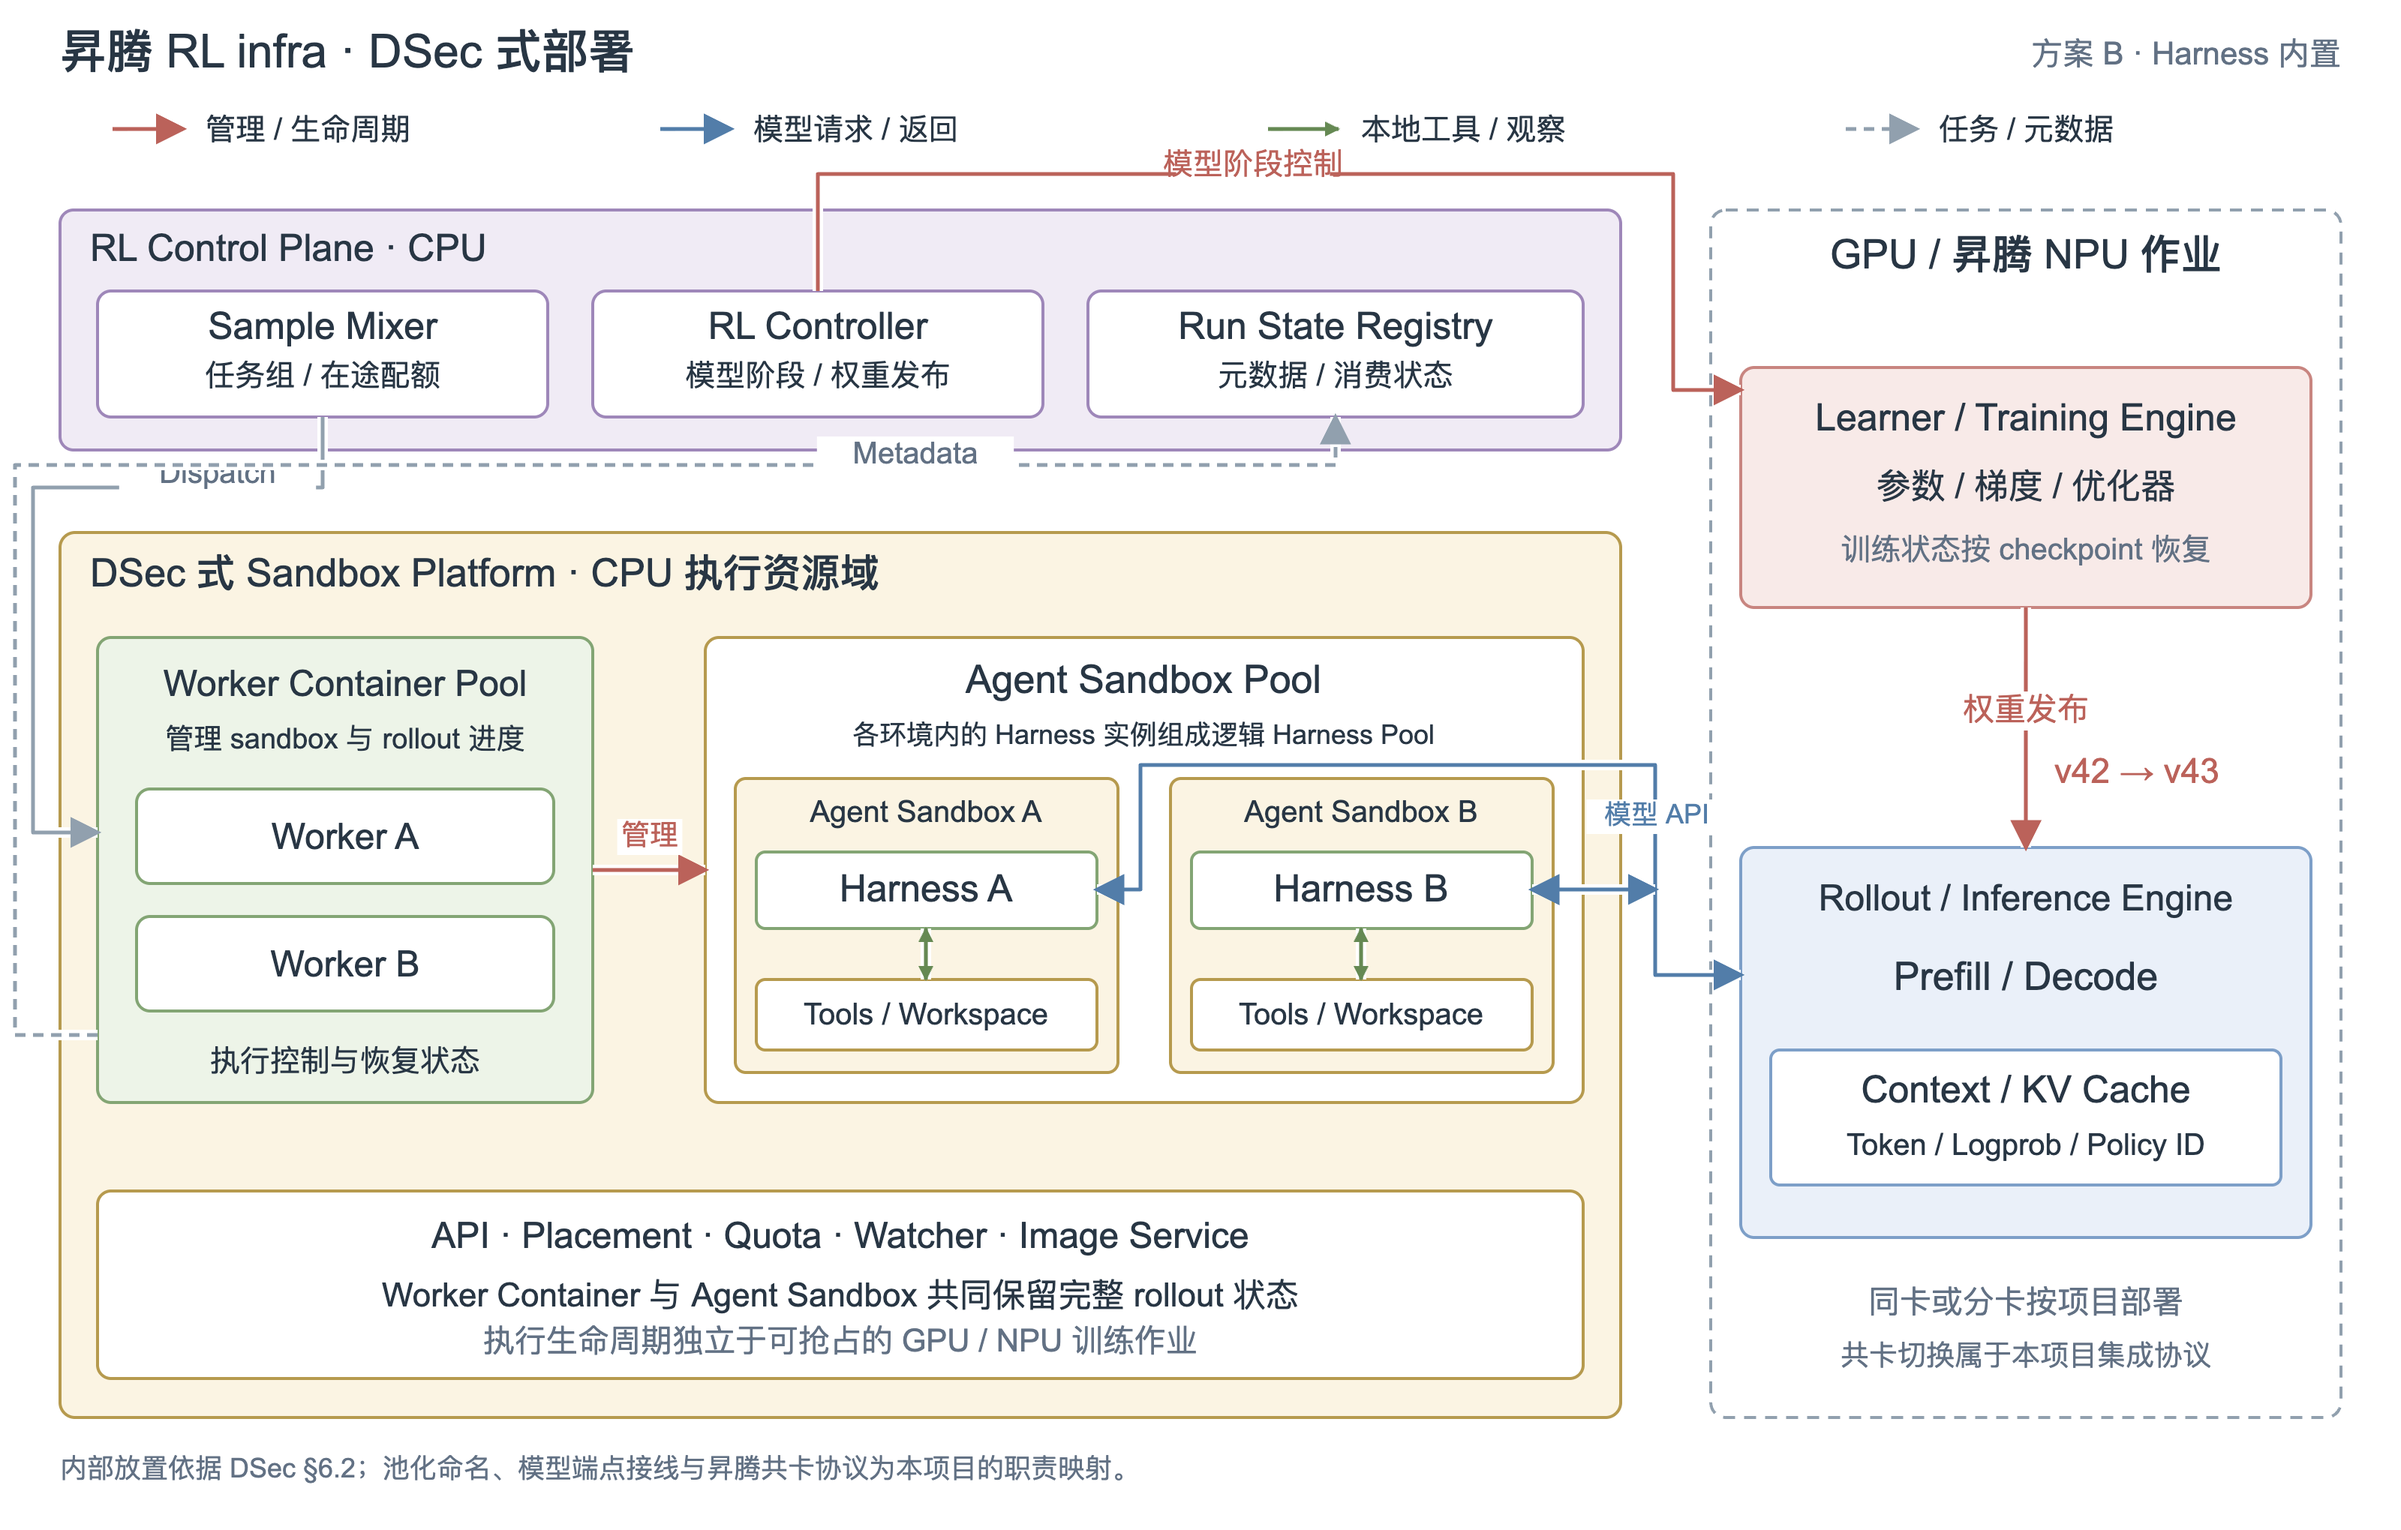
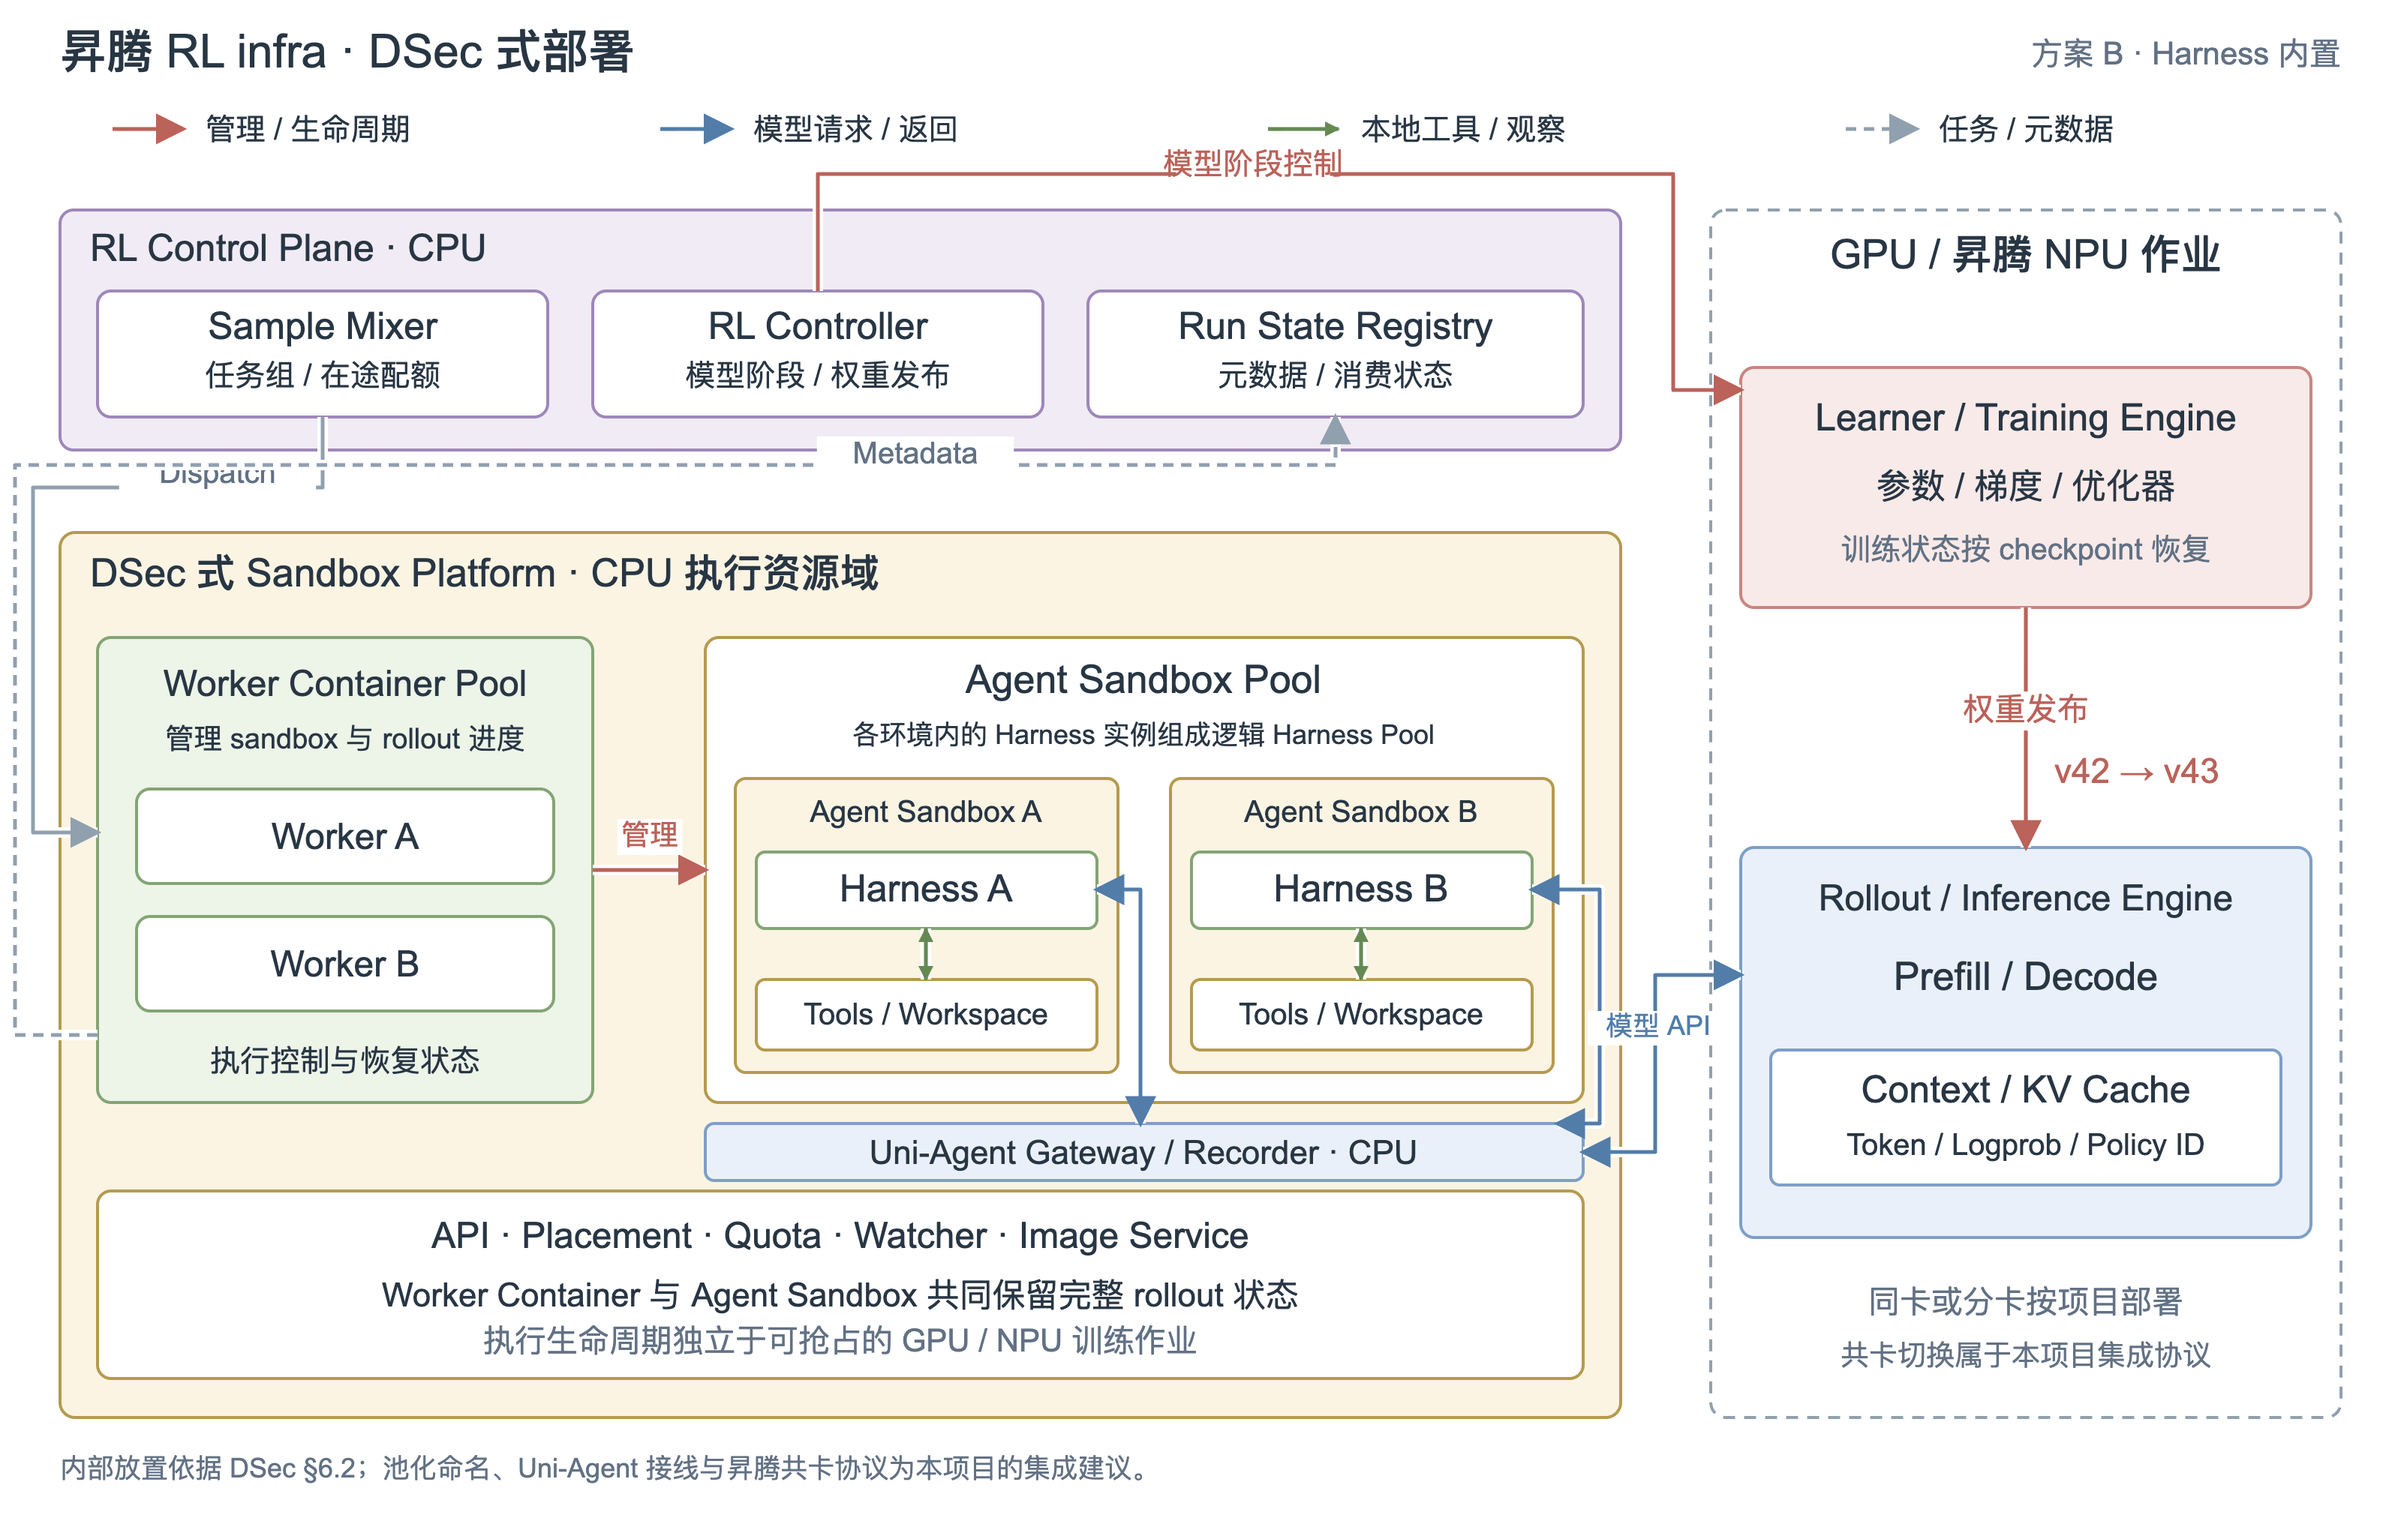
Map Uni-Agent execution gateway and trajectory roles onto both layouts

diff --git a/reads/dispatch-48-deepswe-cpu-npu-runtime.html b/reads/dispatch-48-deepswe-cpu-npu-runtime.html
@@ -36,12 +36,19 @@
 <p>分区表达参考 MiMo-V2.6 Figure 14 的控制面、数据面和执行池，以及 DSec Figure 1 的集群服务、节点运行时和后端展开方式。图中的组件部署、独立接口、资源布局与共卡协议属于本项目的集成设计，图中规模符号表示池化实例，实际容量由实验确定。<a href="https://arxiv.org/html/2610.11959v1#S6" target="_blank" rel="noopener">MiMo Figure 14</a>、<a href="https://arxiv.org/html/2609.22978v1#S3" target="_blank" rel="noopener">DSec Figure 1</a></p>
 <h3>采用 DSec 路线时 Harness 放在哪里</h3>
 <p>DSec §6.2 描述，从 DeepSeek-V4.1 开始将 rollout 执行移到 DSec，并拆为 Worker Container 和 Agent Sandbox。Worker Container 管理沙箱，提供与具体 scaffold 解耦的 rollout 控制层；Agent Sandbox 承载 scaffold，例如 DeepSeek Harness，以及它的工具。两者都运行在可抢占 GPU 池之外，共同保留完整 rollout 状态。<a href="https://arxiv.org/html/2609.22978v1#S6.SS2" target="_blank" rel="noopener">DSec §6.2</a></p>
-<figure id="dsec-placement"><a href="img/dispatch-48-deepswe-cpu-npu-runtime/dsec-placement.svg" target="_blank" rel="noopener"><img src="img/dispatch-48-deepswe-cpu-npu-runtime/dsec-placement.svg" alt="DSec 式内部放置，Worker Container 和包含 Harness 的 Agent Sandbox 均在 Sandbox Platform 内"></a><figcaption>方案 B · DSec 式内置 Harness · <a href="img/dispatch-48-deepswe-cpu-npu-runtime/dsec-placement.svg" target="_blank" rel="noopener">打开矢量图</a> · <a href="img/dispatch-48-deepswe-cpu-npu-runtime/dsec-placement.png" target="_blank" rel="noopener">高清 PNG</a></figcaption><div class="readout"><h5>部署与状态</h5><p>方案 B 将 Worker Container 与 Agent Sandbox 画进 Sandbox Platform 的 CPU 执行资源域，Harness 和工具位于各自的 Agent Sandbox 内。多个环境中的 Harness 实例在本报告中合称逻辑 Harness Pool。图中的池化名称、模型端点接线和昇腾共卡协议为项目集成映射，内部放置依据 DSec §6.2。</p></div></figure>
+<figure id="dsec-placement"><a href="img/dispatch-48-deepswe-cpu-npu-runtime/dsec-placement.svg" target="_blank" rel="noopener"><img src="img/dispatch-48-deepswe-cpu-npu-runtime/dsec-placement.svg" alt="DSec 式内部放置，Worker Container 和包含 Harness 的 Agent Sandbox 均在 Sandbox Platform 内"></a><figcaption>方案 B · DSec 式内置 Harness · <a href="img/dispatch-48-deepswe-cpu-npu-runtime/dsec-placement.svg" target="_blank" rel="noopener">打开矢量图</a> · <a href="img/dispatch-48-deepswe-cpu-npu-runtime/dsec-placement.png" target="_blank" rel="noopener">高清 PNG</a></figcaption><div class="readout"><h5>部署与状态</h5><p>方案 B 将 Worker Container 与 Agent Sandbox 画进 Sandbox Platform 的 CPU 执行资源域，Harness 和工具位于各自的 Agent Sandbox 内。多个环境中的 Harness 实例在本报告中合称逻辑 Harness Pool。图中增加 Uni-Agent Gateway 作为可选 CPU 模型接入层。池化名称、Uni-Agent 接线和昇腾共卡协议为项目集成映射，内部放置依据 DSec §6.2。</p></div></figure>
 <div class="tbl"><table><tr><th>对象</th><th>按 DSec 路线的放置</th><th>职责</th></tr><tr><td>Harness 实例</td><td>Agent Sandbox 内</td><td>驱动 Agent 行为，使用本环境的工具和工作区</td></tr><tr><td>Worker Container</td><td>DSec 上的独立执行容器</td><td>管理环境、执行进度和恢复协调</td></tr><tr><td>模型生成与学习计算</td><td>GPU/NPU 作业</td><td>执行模型前向和训练更新</td></tr></table></div>
 <p>因此，Harness Pool 可以在平台的 CPU 执行资源域内，由多个 Agent Sandbox 中的实例组成。Harness 作为租户任务运行，平台的 API、调度与节点管理进程承担基础设施职责。CPU 资源域的归属、沙箱隔离边界和逻辑池化分别在图中表达。</p>
 <p>MiMo 的 Harness Pool 描述多租户 Host 如何池化承载 Harness 与 Agent Loop；DSec 的上述安排描述 rollout 状态的部署与生命周期。将两者接起来时，需要明确每个实例落在哪个环境、由哪个 Worker 管理。DSec 的执行循环由 Worker 与 Agent Sandbox 共同承载，接入本报告的模型端会话、真实采样记录和数据面接口时，再逐项映射 Agent Loop 职责。<a href="https://arxiv.org/html/2610.11959v1#S6.SS2" target="_blank" rel="noopener">MiMo §6.2</a></p>
 <p>对已有、依赖本地文件系统和子进程的 Coding Harness，可以采用方案 B，把 Harness 直接运行在任务环境中，通过会话级模型端点调用共享推理引擎。工具的本地读写与测试在该环境完成；Worker 的外部执行接口用于启动、管理和恢复等操作。具体模型 Gateway 接线以及内部工具协议应按所用 Harness 实现确认。</p>
 <p>下文的通用职责说明同时适用于两种方案，图 1 至图 3 以及操作示例采用方案 A 的外置接线。</p>
+<h3 id="uni-agent">Uni-Agent 在两种部署图中承担什么职责</h3>
+<p>这里的 Uni-Agent 指 verl-project/uni-agent。它提供 Task、Agent、Tool、Sandbox 和 Gateway 等可组合的软件接口，可以覆盖图中多个 CPU 模块的实现。采用它时，本报告的 Agent Loop 职责可以映射到 Task/Runner 的执行生命周期，以及 Gateway 的模型会话与轨迹采集；Agent 或外部 Harness 负责具体解题行为。<a href="https://uni-agent.readthedocs.io/en/latest/concepts/index.html" target="_blank" rel="noopener">Uni-Agent 核心抽象</a></p>
+<div class="tbl"><table><tr><th>架构位置</th><th>方案 A 外置 Harness</th><th>方案 B 内置 Harness</th></tr><tr><td>Agent 行为</td><td>Uni-Agent 白盒 Agent 在 CPU Worker 中运行，通过工具接口访问环境</td><td>Uni-Agent 黑盒 Agent 适配器启动 Sandbox 内的外部 Harness</td></tr><tr><td>生命周期</td><td>Task/Runner 准备环境、运行 Agent 并组织验证</td><td>在 Worker 控制层接入 Task/Runner，管理环境内的 Harness 进程</td></tr><tr><td>模型调用</td><td>CPU Agent → Gateway → Rollout Engine</td><td>Sandbox 内 Harness → 外部 CPU Gateway → Rollout Engine</td></tr><tr><td>工具执行</td><td>Agent/Toolbox → Sandbox Backend → 执行环境</td><td>Harness 直接使用本环境的工具，外部接口负责管理操作</td></tr><tr><td>训练数据</td><td>Gateway 采集实际生成记录，Framework 组织结果并导出</td><td>同一路径采集 Harness 的模型调用，环境部署位置独立选择</td></tr></table></div>
+<p>Uni-Agent 的白盒 Agent 自己执行交互循环；黑盒 Agent 则将外部 Harness 作为沙箱内进程启动，并注入会话级模型端点。方案 B 中的 Uni-Agent 接线属于本项目对 DSec 部署方式的集成建议，Worker 的持久恢复仍按实际实现验收。<a href="https://uni-agent.readthedocs.io/en/latest/concepts/agent.html" target="_blank" rel="noopener">Uni-Agent Agent 接口</a></p>
+<p>Gateway 向 Harness 提供兼容的模型 API，将请求转换为 token 输入，交给 verl 管理的推理引擎，并组织模型输出和多轮轨迹。训练记录保留实际 token、生成区域 mask 和配置支持的行为 logprob。Framework 在尝试结束后结合 Runner 结果完成记录导出，并可通过 TransferQueue 接入训练数据通路。图中 Payload Porter 的数据通路可以复用相应接口，批次配比和打包布局仍需与所选训练框架对齐。<a href="https://uni-agent.readthedocs.io/en/latest/concepts/gateway-and-trajectories.html" target="_blank" rel="noopener">Gateway 与轨迹</a></p>
+<p>接入沙箱平台时，Uni-Agent 的 Sandbox provider 将 start、stop、exec 和文件操作映射到真实后端。使用 DSec 或自建平台，需要实现并验证相应适配，环境租约和暂停恢复也要与 Task 生命周期协调。<a href="https://uni-agent.readthedocs.io/en/latest/concepts/sandbox.html" target="_blank" rel="noopener">Sandbox 接口</a></p>
+<p>部署建议是将 Gateway 放在沙箱外的可信 CPU 服务中，结合 Runner 按 session ID 关联尝试、奖励与载荷引用。跨步训练时延续同一次尝试及其模型会话；跨进程故障恢复时，还需恢复 Gateway 的轨迹状态。文档描述的活跃 session 保存在 Gateway 内存中，因此环境保活与模型会话恢复需要分别验收。Learner 使用实际训练后端执行梯度更新，Uni-Agent 提供通向该训练链路的 Agent 执行和数据入口。</p>
 <h3>上方控制面决定发什么任务以及何时切换设备</h3>
 <p>Sample Mixer 管任务供给，依据目标训练配比、各源耗时、组接受率和资源预算派发尝试。RL Controller 管训练与生成阶段，协调停止新生成、显存装卸、参数更新和权重发布。Run State Registry 保存组成员、尝试进度、奖励、策略版本、载荷引用和批次消费状态。三者配合后，调度器能够依据元数据判断训练条件，执行端能够查询自己的恢复位置。</p>
 <p>图中 Dispatch 箭头将一次尝试交给 Agent Loop，向上的 Metadata 箭头汇报其进度和结果。Mixer 选好批次后，还要把组 ID、载荷引用和打包计划交给 Packer。该计划形成底部数据面读取哪些记录的依据。Controller 只有在生成已停止、训练批次已就绪且设备状态可切换时，才能进入训练阶段。</p>
